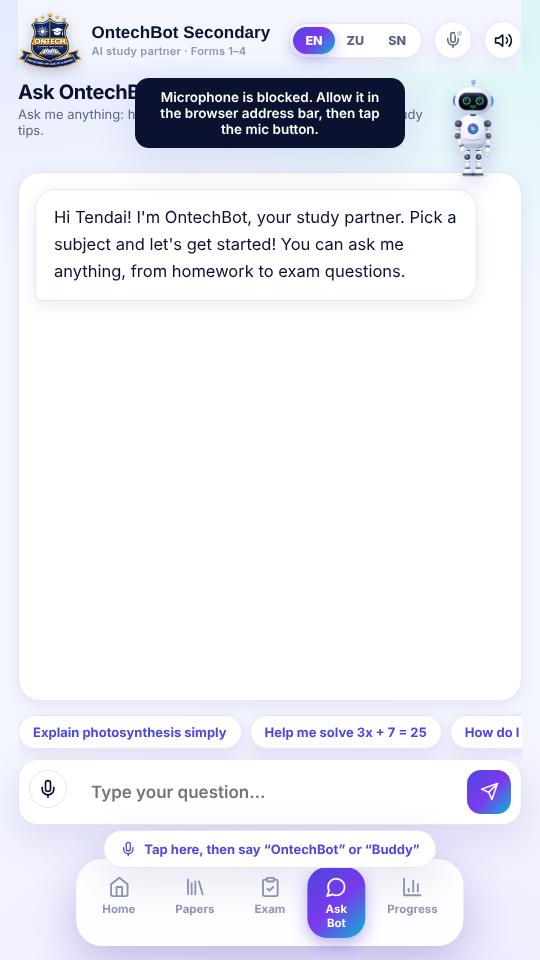
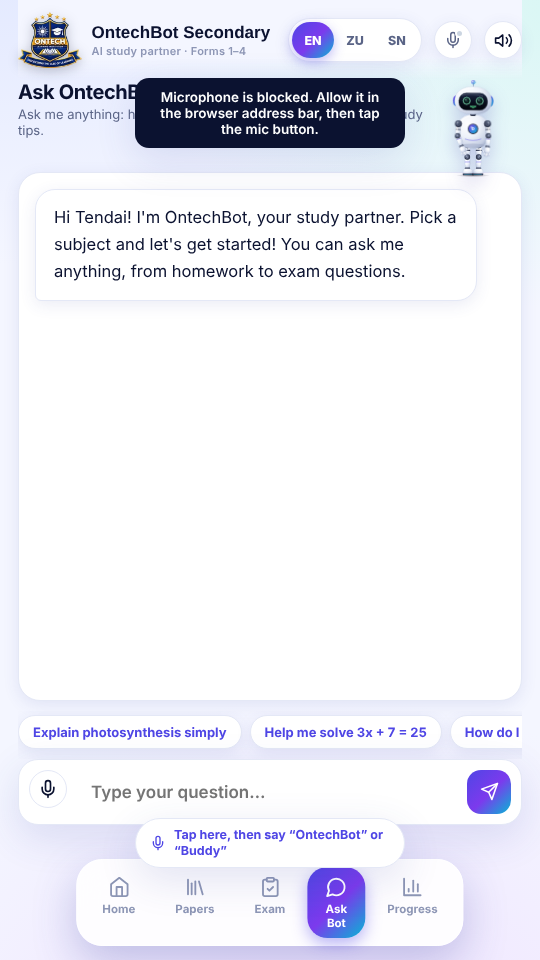
Add files via upload

diff --git a/index.html b/index.html
@@ -387,6 +387,36 @@ body.talking .bot3d:not(.pz) .armR .fore{animation:b3exL 3.4s ease-in-out 1.7s i
 .whint{position:fixed;left:50%;bottom:92px;transform:translateX(-50%);z-index:60;display:flex;align-items:center;gap:8px;padding:10px 16px;border-radius:999px;border:1px solid var(--line);background:#fff;color:#4f46e5;font:700 13px 'Inter',sans-serif;box-shadow:var(--sh);cursor:pointer;white-space:nowrap}
 .cpill{bottom:96px;color:#fff;background:linear-gradient(135deg,#7c3aed,#06b6d4);border:0}
 .cpill .wd{width:10px;height:10px;border-radius:50%;background:#fff;animation:wkp 1.2s infinite;display:inline-block}
+/* ---------- phone / tablet friendliness ---------- */
+html{-webkit-text-size-adjust:100%;text-size-adjust:100%}
+body{overscroll-behavior-y:none;-webkit-tap-highlight-color:transparent}
+button,a,input,select,.tile,.opt,.chip{touch-action:manipulation}
+input,textarea,select{font-size:max(16px,1em)}
+.top{padding-left:max(0px,env(safe-area-inset-left));padding-right:max(0px,env(safe-area-inset-right))}
+main{padding-left:max(0px,env(safe-area-inset-left));padding-right:max(0px,env(safe-area-inset-right))}
+.seg button{min-height:36px;min-width:42px}
+@media(pointer:coarse){button.chip,.chips button,.ptabs button,.pf button,[class*="filter"] button,.pal button{min-height:40px}
+ .seg button{min-height:38px;min-width:44px}}
+/* the voice hint pill: never wider than the screen, never in the way */
+.whint{max-width:calc(100vw - 24px);white-space:normal;text-align:left;font-size:12.5px;padding:8px 14px;line-height:1.3}
+#bubble{max-width:min(260px,62vw)}
+@media(max-width:380px){.top .brand div small,.top .brand p{display:none}.seg button{min-width:38px;padding-left:8px;padding-right:8px}.chip.xp{display:none}h1,.hero h1{font-size:clamp(28px,9vw,40px)}}
+@media(max-width:520px){.cpill,.whint{bottom:calc(92px + env(safe-area-inset-bottom,0px))}#pwaBar{bottom:calc(96px + env(safe-area-inset-bottom,0px));width:calc(100vw - 24px)}}
+/* phone held sideways: use every pixel */
+@media(max-height:520px) and (orientation:landscape){
+ .top{padding-top:calc(4px + env(safe-area-inset-top,0px));padding-bottom:4px}
+ .brand img{height:36px!important;max-width:42px!important}.brand small,.brand p{display:none}
+ .bnav{padding:3px;border-radius:18px;bottom:calc(6px + env(safe-area-inset-bottom,0px))}
+ .bnav button{padding:3px 12px;min-height:38px}.bnav i{display:none!important}
+ #v-chat .chat{height:calc(100dvh - 128px);min-height:200px;max-width:none}
+ #v-chat .stage{display:none}#v-chat.on{display:block}
+ #v-chat .chat>div:first-child{display:none}
+ #v-chat .m{font-size:15px;padding:9px 13px}
+ .qwrap{max-width:none}.coach{display:none}
+ .whint,.cpill{bottom:calc(52px + env(safe-area-inset-bottom,0px))}
+ #dock{transform:scale(.8);transform-origin:bottom right}
+ .hero{grid-template-columns:1fr 1fr!important;gap:12px}.hero h1{font-size:28px}}
+@media(min-width:700px) and (max-width:1000px){main{padding-left:20px;padding-right:20px}}
 
 </style></head><body>
 <div id="app">
@@ -1152,7 +1182,7 @@ const store=v=>{try{localStorage.setItem(KEY2,v?'1':'0')}catch(e){}};
 function beep(f){try{AC=AC||new (window.AudioContext||window.webkitAudioContext)();const o=AC.createOscillator(),g=AC.createGain();o.frequency.value=f||880;o.type='sine';g.gain.value=.08;o.connect(g);g.connect(AC.destination);o.start();g.gain.exponentialRampToValueAtTime(.0001,AC.currentTime+.18);o.stop(AC.currentTime+.2)}catch(e){}}
 function paint(){const b=document.getElementById('wbtn');if(b){const live=on&&!paused&&!busyCmd&&!!wr;b.classList.toggle('on',live);b.classList.toggle('busy',busyCmd);
  b.title=on?'Listening for "OntechBot" or "Buddy" - tap to turn off':'Tap to let me listen for "OntechBot" or "Buddy"';b.setAttribute('aria-pressed',on?'true':'false')}
- const h=document.getElementById('whint');if(h)h.style.display=(on&&wr)||!SR?'none':'flex'}
+ const h=document.getElementById('whint');if(h)h.style.display=(on&&wr)||!SR||h.dataset.gone?'none':'flex'}
 function stopWake(){const r=wr;wr=null;if(!r)return;r.onend=null;r.onresult=null;r.onerror=null;try{r.abort()}catch(e){}}
 function startWake(){if(!SR||!on||paused||busyCmd||wr)return;
  const r=new SR();r.continuous=true;r.interimResults=true;r.maxAlternatives=4;r.lang='en-US';
@@ -1213,7 +1243,7 @@ document.addEventListener('click',e=>{if(convo&&e.target.closest&&e.target.close
 function init(){const hdr=document.querySelector('.top');if(!hdr||document.getElementById('wbtn'))return;
  const b=document.createElement('button');b.className='icon-btn wake';b.id='wbtn';b.setAttribute('aria-label','Hands-free listening');b.innerHTML=I('mic',18)+'<i class="wd"></i>';
  hdr.insertBefore(b,document.getElementById('vbtn'));b.onclick=toggle;
- const h=document.createElement('button');h.id='whint';h.className='whint';h.innerHTML=I('mic',16)+' Tap here, then say &ldquo;OntechBot&rdquo; or &ldquo;Buddy&rdquo;';h.onclick=()=>{turnOn()};document.body.appendChild(h);
+ const h=document.createElement('button');h.id='whint';h.className='whint';h.innerHTML=I('mic',16)+' Tap here, then say &ldquo;OntechBot&rdquo; or &ldquo;Buddy&rdquo;';h.onclick=()=>{turnOn()};document.body.appendChild(h);setTimeout(()=>{h.dataset.gone=1;h.style.display='none'},9000);
  if(!SR){b.style.display='none';h.style.display='none';return}
  if(stored()==='0'){h.style.display='none'}
  /* try straight away (works when the mic was already allowed), and on the first tap or key press */

diff --git a/sw.js b/sw.js
@@ -1,5 +1,5 @@
-/* OntechBot service worker - v202610102225 */
-const CACHE='ontechbot-v202610102225';
+/* OntechBot service worker - v202610102235 */
+const CACHE='ontechbot-v202610102235';
 const FILES=['./','index.html','manifest.webmanifest','icons/icon-192.png','icons/icon-512.png','icons/icon-maskable-512.png','icons/apple-touch-icon.png','icons/favicon-32.png'];
 self.addEventListener('install',e=>{e.waitUntil(caches.open(CACHE).then(c=>c.addAll(FILES)));});
 self.addEventListener('message',e=>{if(e.data==='skip')self.skipWaiting()});
